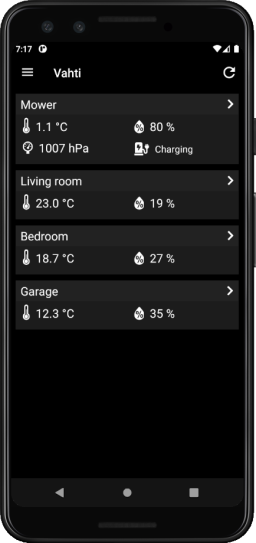
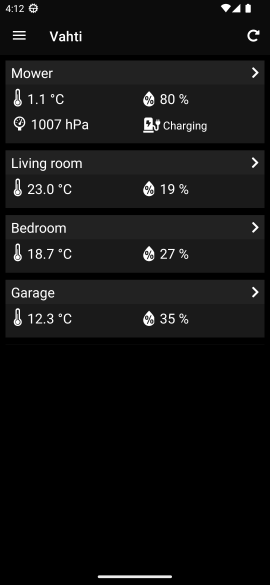
Update screenshots

diff --git a/README.md b/README.md
@@ -20,10 +20,10 @@ Server part (running on Raspberry Pi, for example) gathers data for mobile and w
 ## Features
 ### Mobile application (Vahti.Mobile)
 ![Locations (Dark)](doc/images/locations_dark.png) 
-![Locations](doc/images/locations.png) 
-![History](doc/images/history.png)
-![Details](doc/images/details.png)
-![Options](doc/images/options.png)
+![Locations](doc/images/locations_light.png) 
+![History](doc/images/history_light.png)
+![Details](doc/images/details_light.png)
+![Options](doc/images/options_light.png)
 ![Widget](doc/images/widget.png)
 
 - For Android and iOS
